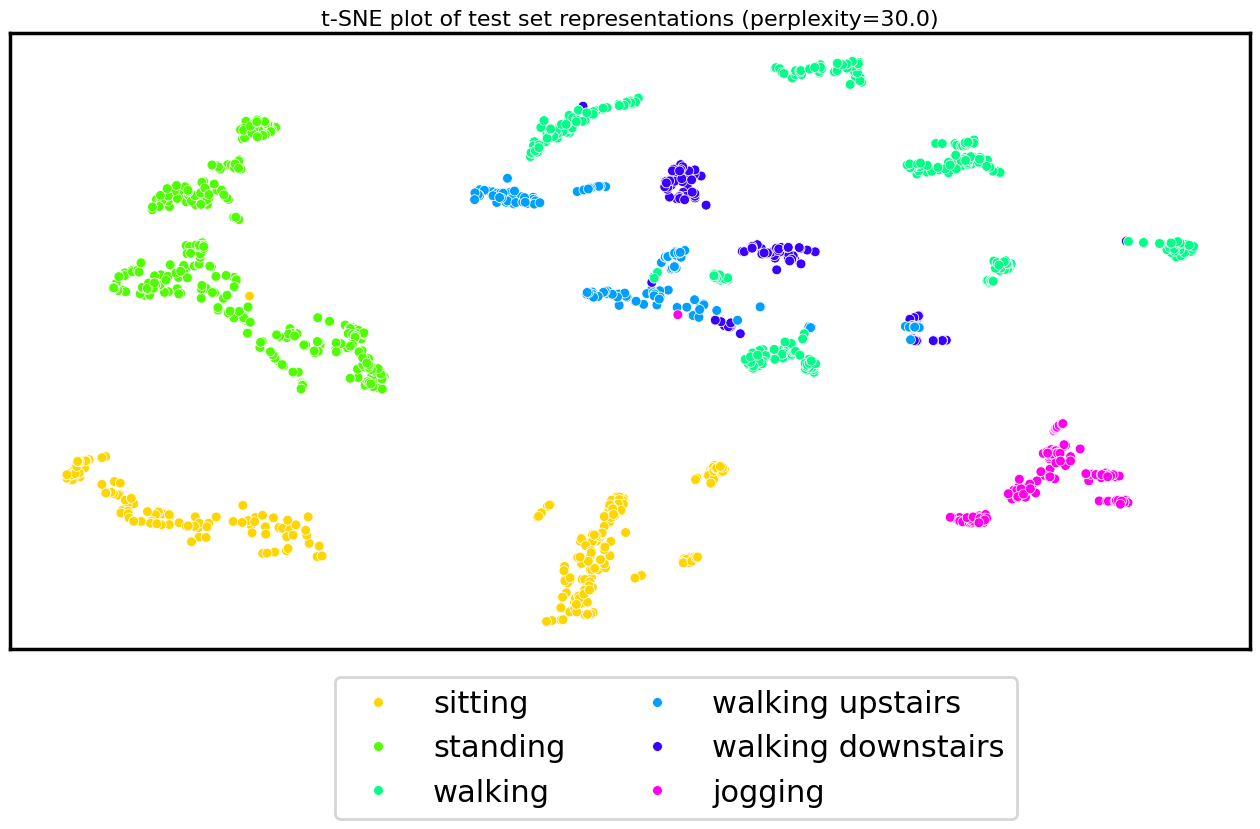
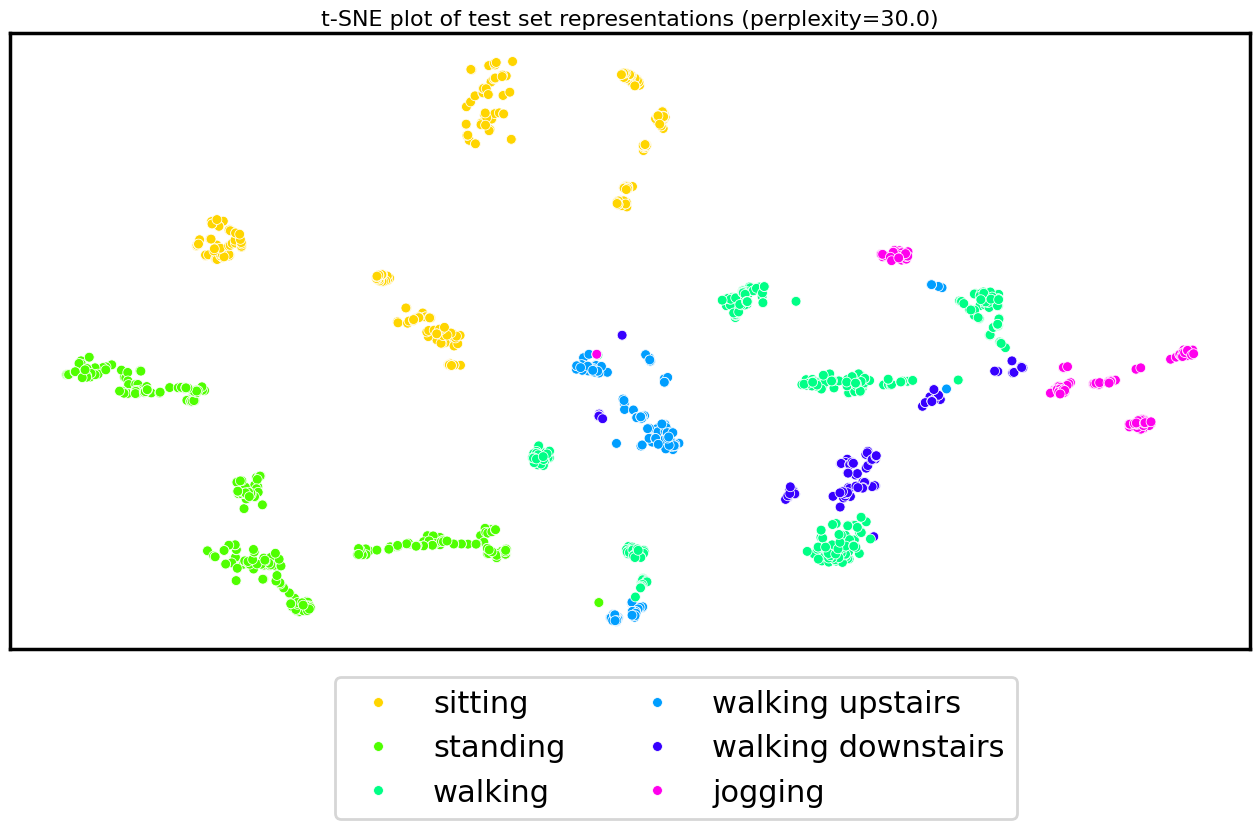
rotation sincnet model

diff --git a/SimCLR_MotionSense_R.py b/SimCLR_MotionSense_R.py
@@ -240,7 +240,7 @@ tf.keras.backend.set_floatx('float32')
 lr_decayed_fn = tf.keras.optimizers.schedules.CosineDecay(initial_learning_rate=0.1, decay_steps=decay_steps)
 optimizer = tf.keras.optimizers.SGD(lr_decayed_fn)
 
-base_model = simclr_models.create_sincnet_base_model(input_shape=input_shape, output_shape=output_shape, model_name="SincNet", num_sinc_filters=16, sinc_kernel_size=100, sample_rate=sampling_rate, depthwise=True)  
+base_model = simclr_models.create_sincnet_base_model(input_shape=input_shape, model_name="SincNet", num_sinc_filters=16, sinc_kernel_size=100, sample_rate=sampling_rate, depthwise=True)  
 simclr_model = simclr_models.attach_simclr_head(base_model)
 simclr_model.summary()
 